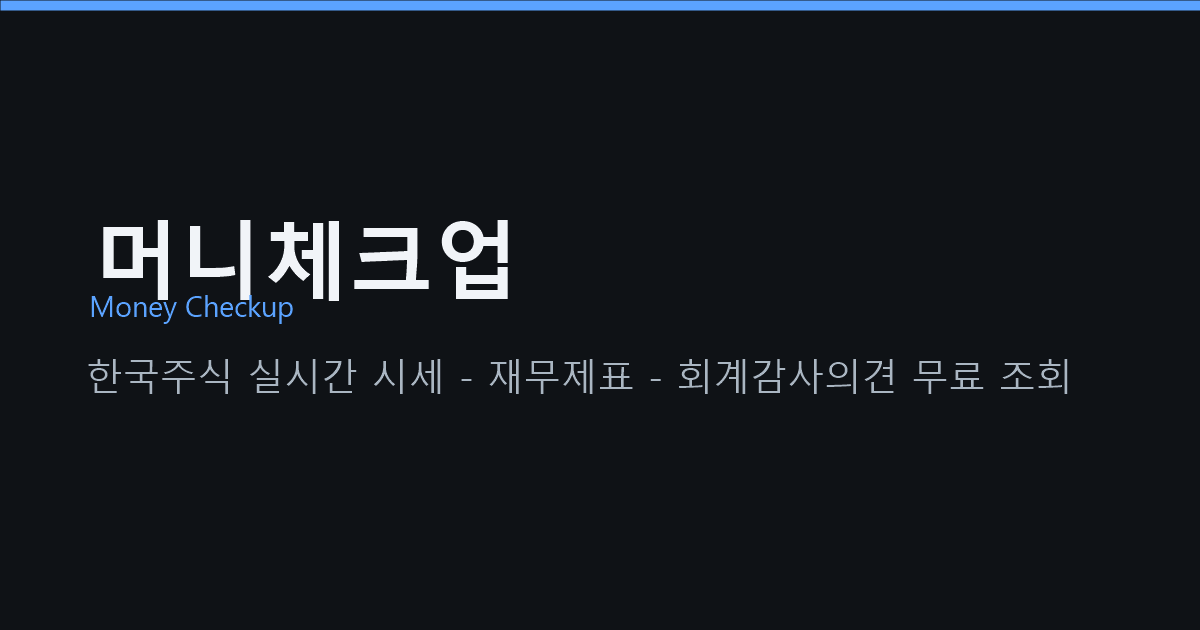
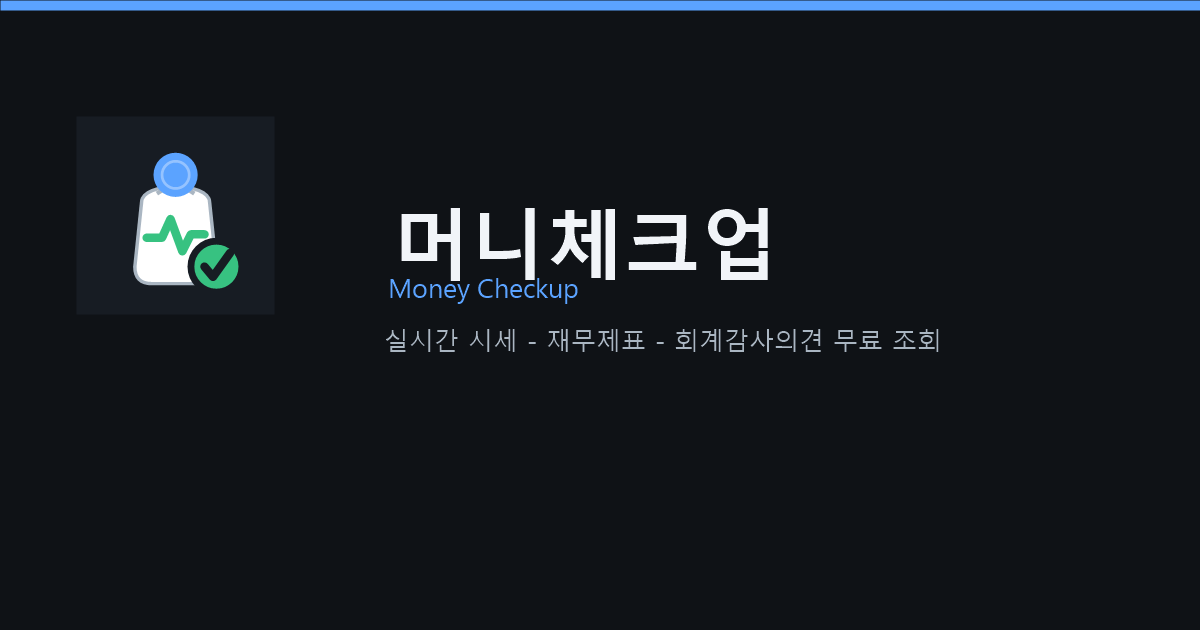
feat: 확정 브랜드마크(코인지갑+펄스체크) 파비콘/헤더로고/OG이미지 적용
- static/favicon-16.png, favicon-32.png, apple-touch-icon.png, icon-512.png 추가
- static/index.html, about.html, content.py layout(): favicon/apple-touch-icon 링크 추가
- static/index.html: 헤더 h1 이모지(💹) 대신 확정 마크 아이콘으로 교체
- static/og-image.png: 텍스트만 있던 기존 이미지에 확정 마크 아이콘 추가해 재생성

Changed region(s): [[0.0617, 0.2413, 0.6475, 0.5127], [0.0617, 0.5127, 0.8942, 0.6333]]

diff --git a/static/index.html b/static/index.html
@@ -13,6 +13,9 @@
 </script>
 <meta name="google-site-verification" content="5TVrZ_HlWRfb6pGJ1o-2YwzL1qnPxqpTwJSLWVGLM74" />
 <meta name="naver-site-verification" content="2f945cfe349bbdceb4341472d7d2a1cc69b26a1f" />
+<link rel="icon" type="image/png" sizes="32x32" href="/static/favicon-32.png">
+<link rel="icon" type="image/png" sizes="16x16" href="/static/favicon-16.png">
+<link rel="apple-touch-icon" href="/static/apple-touch-icon.png">
 <title>머니체크업 · 한국주식 실시간 시세·재무제표·회계감사의견 무료 조회</title>
 <meta name="description" content="머니체크업(Money Checkup) — KOSPI·KOSDAQ 전 종목의 실시간 시세·재무제표는 물론 잘 안 알려주는 회계감사의견(적정/한정/부적정)까지 공시 원문 없이 무료로 확인. 건강검진 별점·이상신호·조건검색까지 한 곳에서.">
 <meta name="keywords" content="한국주식,머니체크업,재무건강검진,가치주,퀄리티,팩터투자,PER,PBR,ROE,섹터,테마,백테스트,KOSPI,KOSDAQ,스크리너,조건검색,공시">
@@ -207,7 +210,9 @@
 </head>
 <body>
 <header>
-  <h1>💹 머니체크업 <span style="font-weight:400;color:var(--dim);font-size:13px">Money Checkup</span></h1>
+  <h1><img src="/static/favicon-32.png" width="24" height="24" alt=""
+    style="vertical-align:-5px;border-radius:6px;margin-right:2px"> 머니체크업
+    <span style="font-weight:400;color:var(--dim);font-size:13px">Money Checkup</span></h1>
   <span class="sub" id="asof">로딩…</span>
 </header>
 

diff --git a/static/about.html b/static/about.html
@@ -12,6 +12,9 @@
 </script>
 <meta name="google-site-verification" content="5TVrZ_HlWRfb6pGJ1o-2YwzL1qnPxqpTwJSLWVGLM74" />
 <meta name="naver-site-verification" content="2f945cfe349bbdceb4341472d7d2a1cc69b26a1f" />
+<link rel="icon" type="image/png" sizes="32x32" href="/static/favicon-32.png">
+<link rel="icon" type="image/png" sizes="16x16" href="/static/favicon-16.png">
+<link rel="apple-touch-icon" href="/static/apple-touch-icon.png">
 <title>머니체크업 · 소개 · 방법론 · 면책 · 개인정보처리방침</title>
 <meta name="description" content="머니체크업(Money Checkup) 한국 주식 리서치 도구의 소개, 건강검진 점수·이상신호 방법론, 백테스트(시점정합·상장폐지 포함·거래비용 반영), 투자 면책조항, 개인정보처리방침.">
 <link rel="canonical" href="https://kr-screener.onrender.com/about">

diff --git a/content.py b/content.py
@@ -53,6 +53,9 @@ def layout(title, desc, canonical, body, extra_nav=""):
 </script>
 <meta name="google-site-verification" content="5TVrZ_HlWRfb6pGJ1o-2YwzL1qnPxqpTwJSLWVGLM74" />
 <meta name="naver-site-verification" content="2f945cfe349bbdceb4341472d7d2a1cc69b26a1f" />
+<link rel="icon" type="image/png" sizes="32x32" href="{parts.scheme}://{parts.netloc}/static/favicon-32.png">
+<link rel="icon" type="image/png" sizes="16x16" href="{parts.scheme}://{parts.netloc}/static/favicon-16.png">
+<link rel="apple-touch-icon" href="{parts.scheme}://{parts.netloc}/static/apple-touch-icon.png">
 <title>머니체크업 · {_esc(title)}</title>
 <meta name="description" content="{_esc(desc)}">
 <link rel="canonical" href="{_esc(canonical)}">
